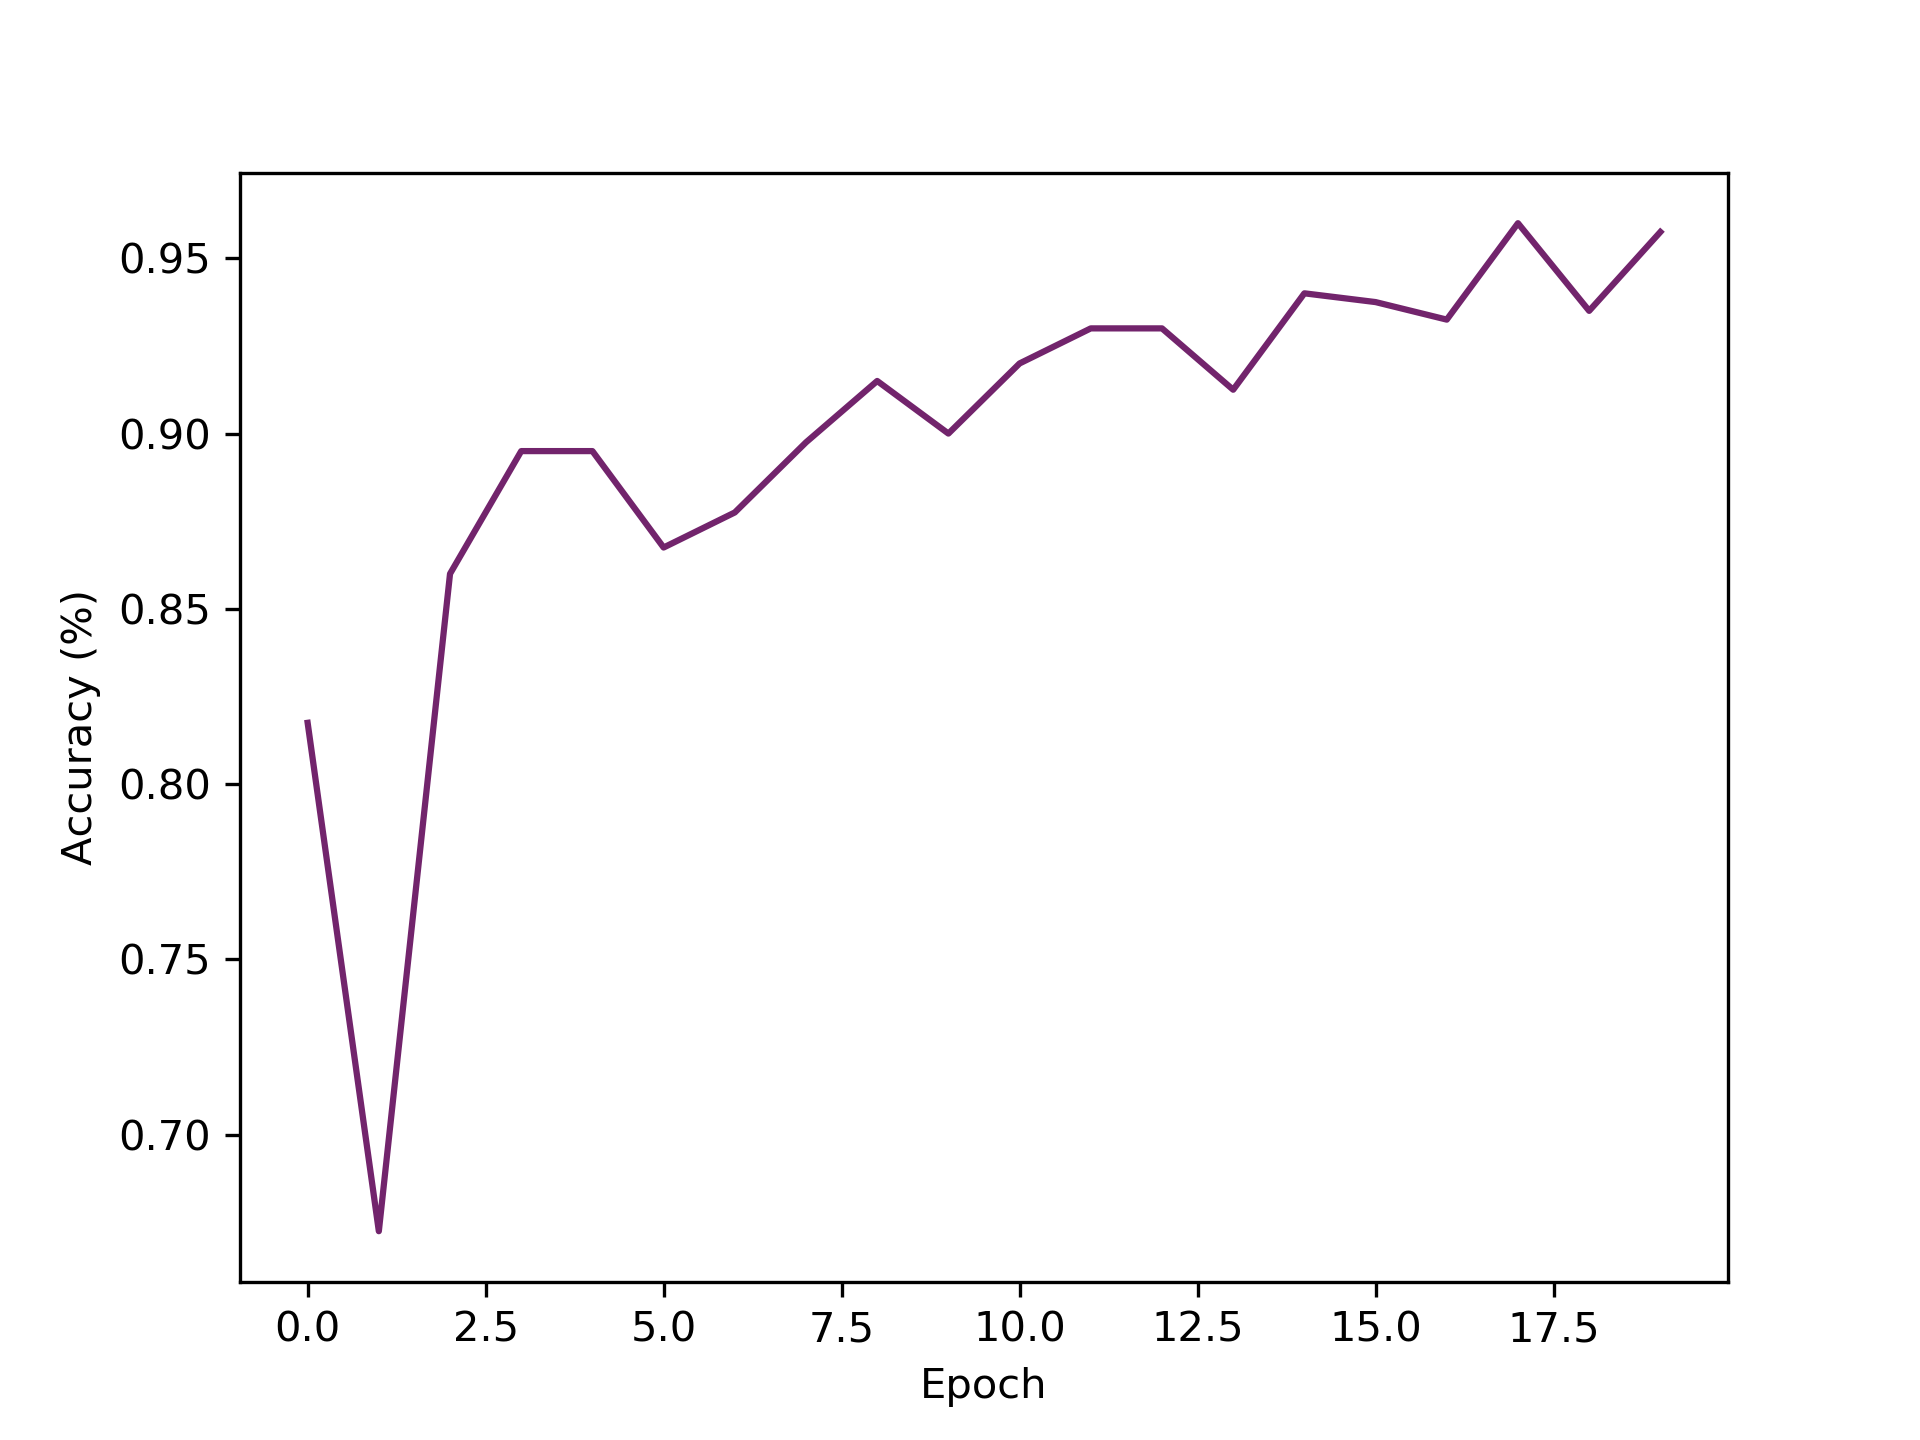
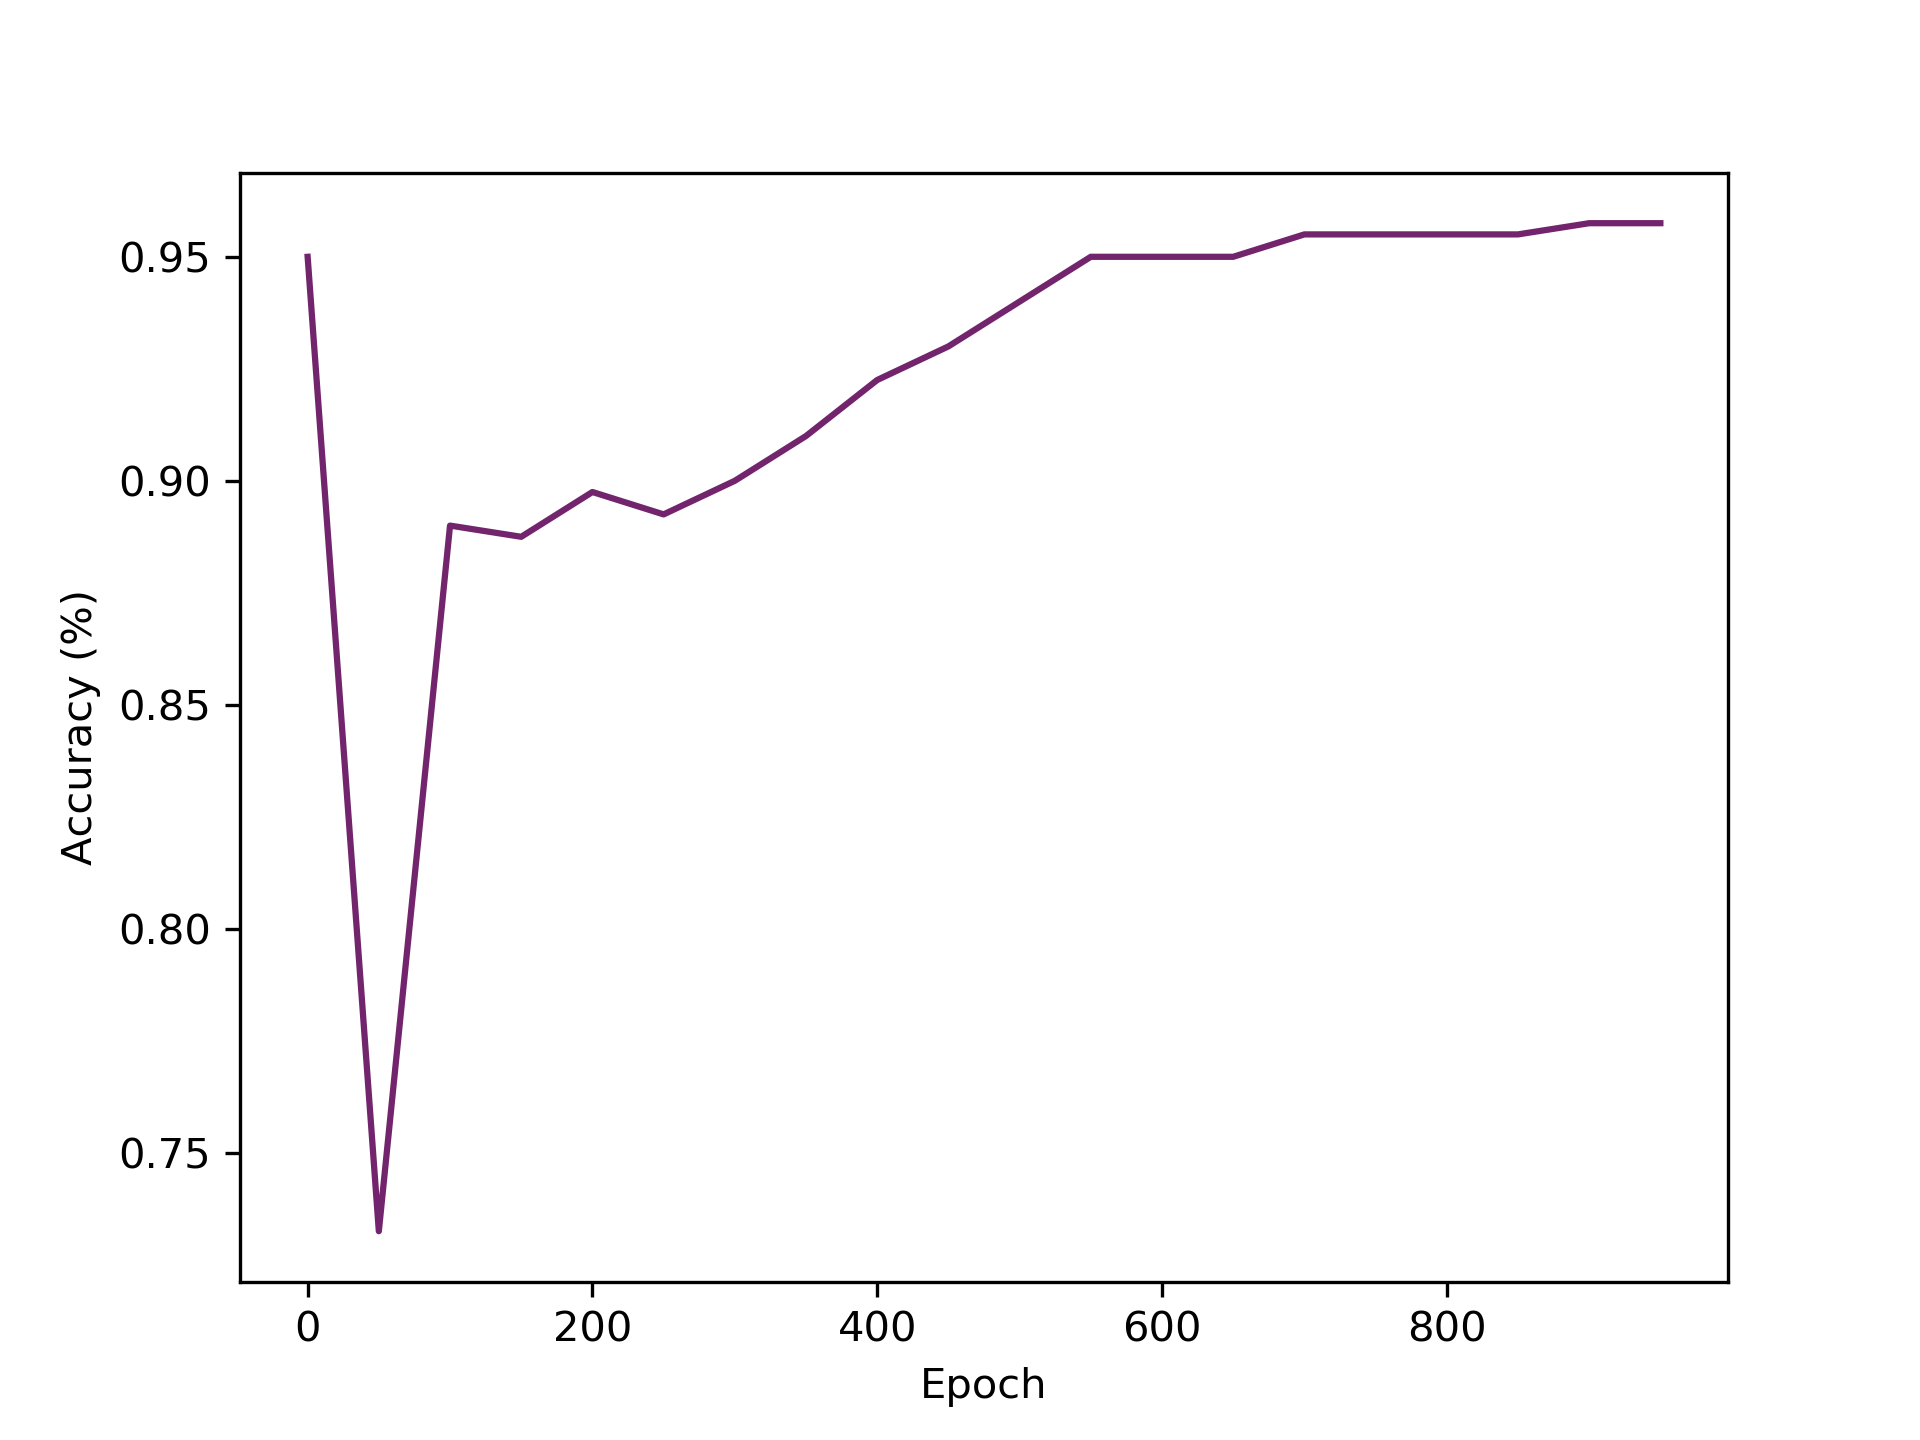
small changes

diff --git a/ReinforcementLearningWithDPPs/root1_Correct-Assumptions/Models/NN.py b/ReinforcementLearningWithDPPs/root1_Correct-Assumptions/Models/NN.py
@@ -165,9 +165,9 @@ if __name__=="__main__":
     model.batch_y = Y
 
     ac_time = []
-
+    epochs  = []
     n_check = 400
-    def check_acc(idxs=np.random.randint(0,n,n_check)):
+    def check_acc(ep, idxs=np.random.randint(0,n,n_check)):
         count = 0
         for i in idxs:
             [s, a, ns, r] = data[i]
@@ -179,17 +179,18 @@ if __name__=="__main__":
                 count+=1
         acc = count/n_check
         ac_time.append(acc)
+        epochs.append(ep)
         print('\nACC: '+str(acc))
 
-
-    for i in tqdm(range(1000)):
+    n_epochs = 1000
+    for i in tqdm(range(n_epochs)):
         model.train()
         if i%50==0:
             model.save()
-            check_acc()
+            check_acc(i)
             
     import matplotlib.pyplot as plt
-    plt.plot(ac_time, c="#72246C")
+    plt.plot(epochs, ac_time, c="#72246C")
     plt.xlabel('Epoch')
     plt.ylabel('Accuracy (%)')
     plt.savefig('../plots/nn_training', dpi=300)
@@ -199,7 +200,7 @@ if __name__=="__main__":
 ################           test on unseen examples:            ################
 ###############################################################################         
     
-    print( check_acc(idxs=list(test_ixs)) )
+    print(check_acc(n_epochs, idxs=list(test_ixs)) )
     
             
 #    model = NN_model()

diff --git a/ReinforcementLearningWithDPPs/root1_Correct-Assumptions/DeterminantalSARSA/DeterminantalSARSA_Model.py b/ReinforcementLearningWithDPPs/root1_Correct-Assumptions/DeterminantalSARSA/DeterminantalSARSA_Model.py
@@ -208,7 +208,7 @@ class DetSARSA_Model:
             # V update
 #            print(self.α)
 #            self.λ *= 0.9999
-            self.V_wr( x, self.η * TD * grad_Q )# - (V_x - self.ei_s(x)) * η * self.λ )
+            self.V_wr( x, self.η * TD * grad_Q )# - (V_x - self.ei_s(x)) * η * self.λ )# regularisation
             
 #            self.α += η * TD# grad_α = 1
             
